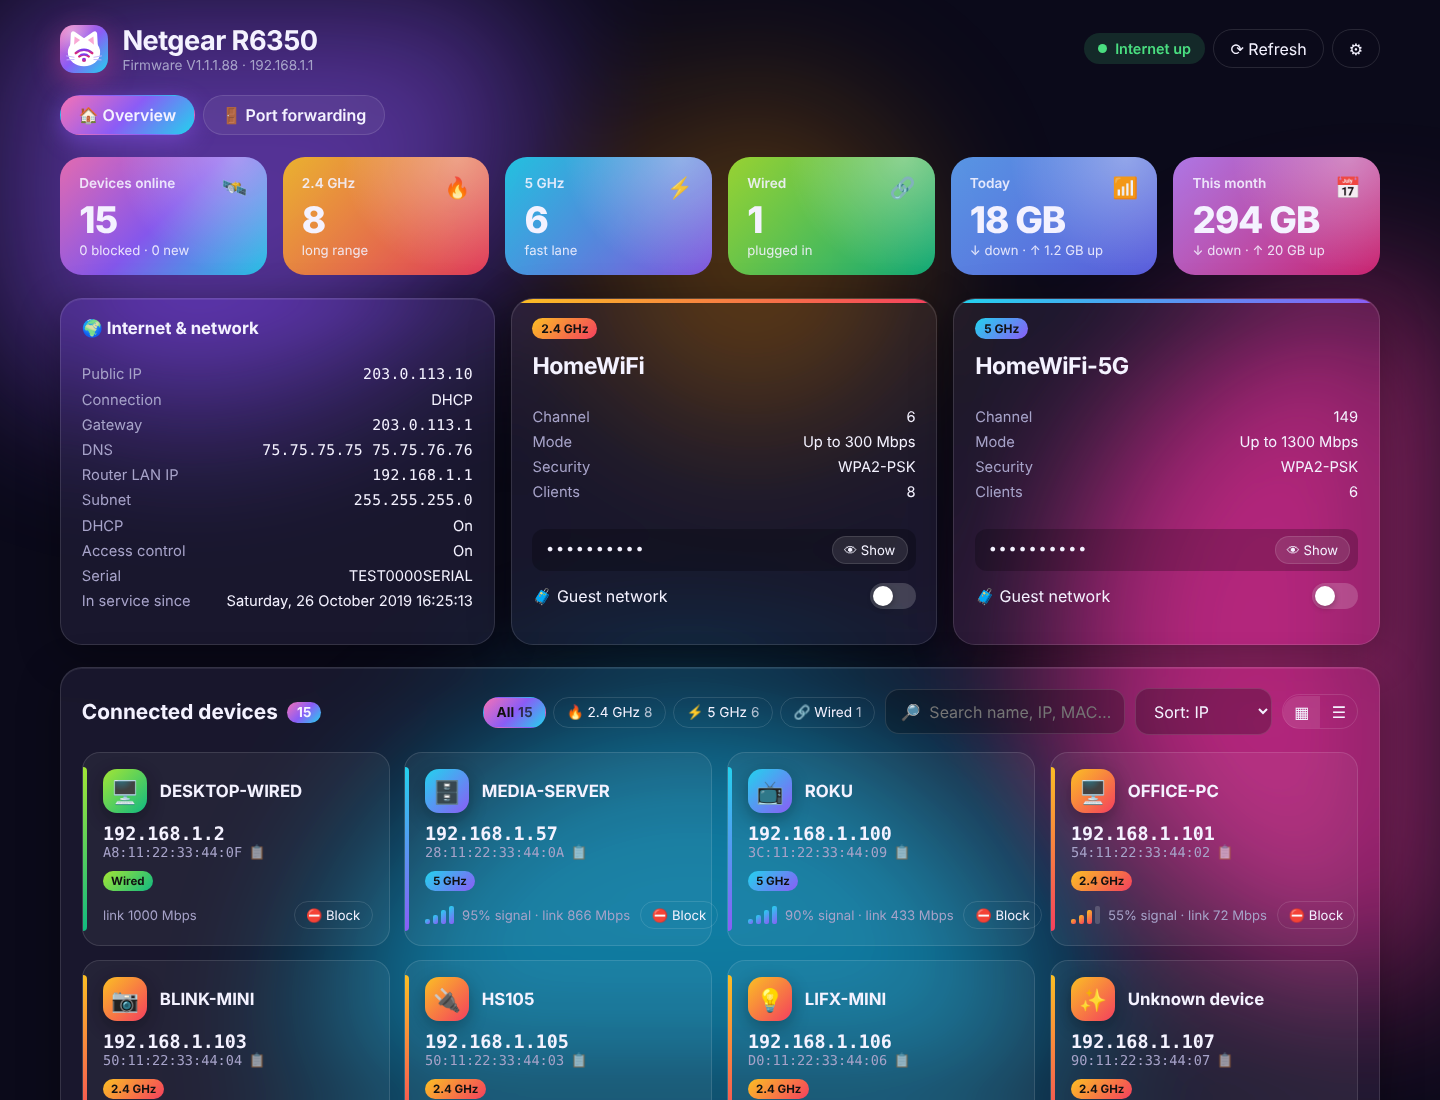
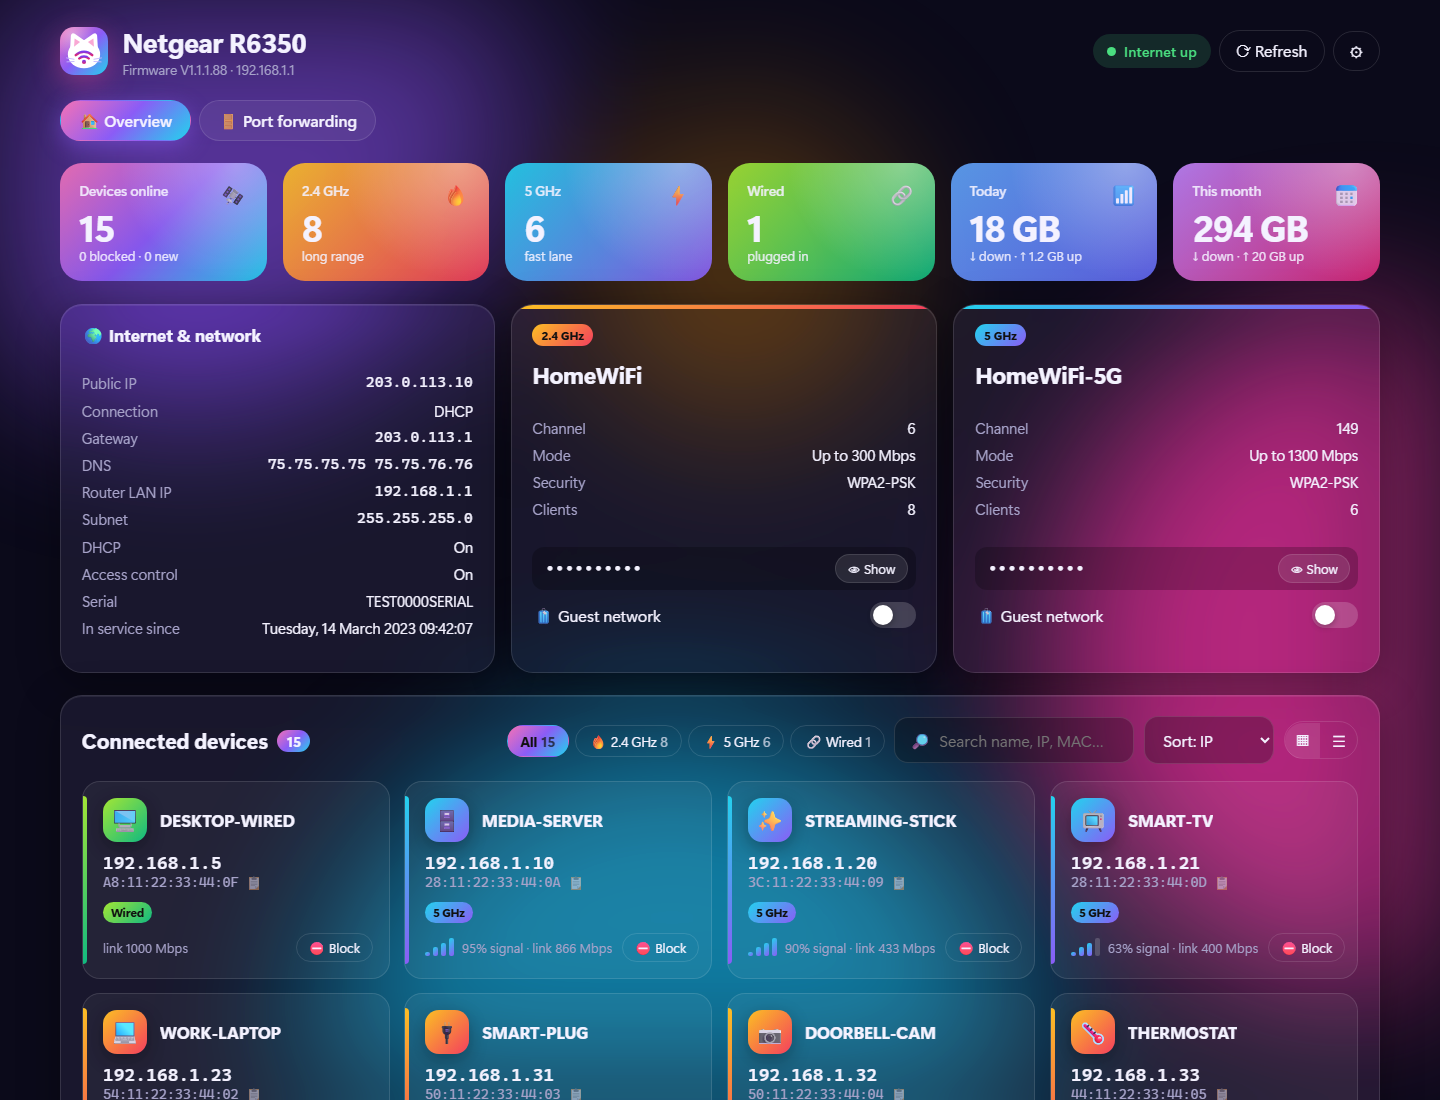
Replace real network details in mock router and screenshot with fake ones
The mock router (and the README screenshot taken from it) contained some
values copied from a real network: device names, LAN IP assignments, the
router's first-use date and two port-forward rules. All replaced with
made-up values; screenshot retaken against the updated mock.

Changed region(s): [[0.0312, 0.0309, 0.9688, 1.0], [0.75, 0.0309, 0.9062, 0.0618], [0.2188, 0.8036, 0.25, 0.8964]]

diff --git a/tools/mock-router/mock_router.py b/tools/mock-router/mock_router.py
@@ -15,32 +15,32 @@ from http.server import BaseHTTPRequestHandler, ThreadingHTTPServer
 LEGACY = "--legacy" in sys.argv  # simulate firmware without GetAttachDevice2
 
 DEVICES = [
-    ("192.168.1.125", "PIXEL-PHONE", "7E:11:22:33:44:01", "2.4GHz", 72, "144", "HomeWiFi"),
-    ("192.168.1.101", "OFFICE-PC", "54:11:22:33:44:02", "2.4GHz", 55, "72", "HomeWiFi"),
-    ("192.168.1.105", "HS105", "50:11:22:33:44:03", "2.4GHz", 61, "65", "HomeWiFi"),
-    ("192.168.1.103", "BLINK-MINI", "50:11:22:33:44:04", "2.4GHz", 40, "39", "HomeWiFi"),
-    ("192.168.1.113", "MY-ECOBEE", "44:11:22:33:44:05", "2.4GHz", 66, "72", "HomeWiFi"),
-    ("192.168.1.106", "LIFX-MINI", "D0:11:22:33:44:06", "2.4GHz", 48, "54", "HomeWiFi"),
-    ("192.168.1.107", "&lt;unknown&gt;", "90:11:22:33:44:07", "2.4GHz", 30, "24", "HomeWiFi"),
-    ("192.168.1.115", "GALAXY-A03S", "EE:11:22:33:44:08", "2.4GHz", 80, "72", "HomeWiFi"),
-    ("192.168.1.100", "ROKU", "3C:11:22:33:44:09", "5GHz", 90, "433", "HomeWiFi-5G"),
-    ("192.168.1.57", "MEDIA-SERVER", "28:11:22:33:44:0A", "5GHz", 95, "866", "HomeWiFi-5G"),
-    ("192.168.1.118", "PIXEL-9A", "32:11:22:33:44:0B", "5GHz", 70, "585", "HomeWiFi-5G"),
-    ("192.168.1.111", "&lt;unknown&gt;", "68:11:22:33:44:0C", "5GHz", 52, "200", "HomeWiFi-5G"),
-    ("192.168.1.112", "SAMSUNG", "28:11:22:33:44:0D", "5GHz", 63, "400", "HomeWiFi-5G"),
-    ("192.168.1.114", "IPHONE-14", "14:11:22:33:44:0E", "5GHz", 77, "780", "HomeWiFi-5G"),
-    ("192.168.1.2", "DESKTOP-WIRED", "A8:11:22:33:44:0F", "wired", None, "1000", None),
+    ("192.168.1.42", "ANDROID-PHONE", "7E:11:22:33:44:01", "2.4GHz", 72, "144", "HomeWiFi"),
+    ("192.168.1.23", "WORK-LAPTOP", "54:11:22:33:44:02", "2.4GHz", 55, "72", "HomeWiFi"),
+    ("192.168.1.31", "SMART-PLUG", "50:11:22:33:44:03", "2.4GHz", 61, "65", "HomeWiFi"),
+    ("192.168.1.32", "DOORBELL-CAM", "50:11:22:33:44:04", "2.4GHz", 40, "39", "HomeWiFi"),
+    ("192.168.1.33", "THERMOSTAT", "44:11:22:33:44:05", "2.4GHz", 66, "72", "HomeWiFi"),
+    ("192.168.1.34", "SMART-BULB", "D0:11:22:33:44:06", "2.4GHz", 48, "54", "HomeWiFi"),
+    ("192.168.1.35", "&lt;unknown&gt;", "90:11:22:33:44:07", "2.4GHz", 30, "24", "HomeWiFi"),
+    ("192.168.1.43", "TABLET", "EE:11:22:33:44:08", "2.4GHz", 80, "72", "HomeWiFi"),
+    ("192.168.1.20", "STREAMING-STICK", "3C:11:22:33:44:09", "5GHz", 90, "433", "HomeWiFi-5G"),
+    ("192.168.1.10", "MEDIA-SERVER", "28:11:22:33:44:0A", "5GHz", 95, "866", "HomeWiFi-5G"),
+    ("192.168.1.44", "PHONE-2", "32:11:22:33:44:0B", "5GHz", 70, "585", "HomeWiFi-5G"),
+    ("192.168.1.36", "&lt;unknown&gt;", "68:11:22:33:44:0C", "5GHz", 52, "200", "HomeWiFi-5G"),
+    ("192.168.1.21", "SMART-TV", "28:11:22:33:44:0D", "5GHz", 63, "400", "HomeWiFi-5G"),
+    ("192.168.1.45", "IPHONE", "14:11:22:33:44:0E", "5GHz", 77, "780", "HomeWiFi-5G"),
+    ("192.168.1.5", "DESKTOP-WIRED", "A8:11:22:33:44:0F", "wired", None, "1000", None),
 ]
 BLOCKED = set()
 TOKEN = None
-RULES = [{"name": "web server", "ex": "5000-5000", "in": "5000-5000", "ip": "192.168.1.57", "proto": "1"},
-         {"name": "Media", "ex": "8096-8096", "in": "8096-8096", "ip": "192.168.1.57", "proto": "0"}]
+RULES = [{"name": "web server", "ex": "8080-8080", "in": "80-80", "ip": "192.168.1.10", "proto": "1"},
+         {"name": "Game server", "ex": "25565-25565", "in": "25565-25565", "ip": "192.168.1.23", "proto": "0"}]
 GUEST = {"2.4": False, "5": False}
 COOKIE = "sess_id=abc123; path=/"
 
 FIELDS = {
     "DeviceInfo:1#GetInfo": dict(ModelName="R6350", Firmwareversion="V1.1.1.88", SerialNumber="TEST0000SERIAL",
-                                FirstUseDate="Saturday, 26 October 2019 16:25:13", DeviceName="R6350"),
+                                FirstUseDate="Tuesday, 14 March 2023 09:42:07", DeviceName="R6350"),
     "WANIPConnection:1#GetInfo": dict(NewEnable="1", NewConnectionType="DHCP", NewExternalIPAddress="203.0.113.10",
                                       NewSubnetMask="255.255.252.0", NewAddressingType="DHCP", NewDefaultGateway="203.0.113.1",
                                       NewMACAddress="58:96:93:00:11:22", NewDNSServers="75.75.75.75 75.75.76.76"),
